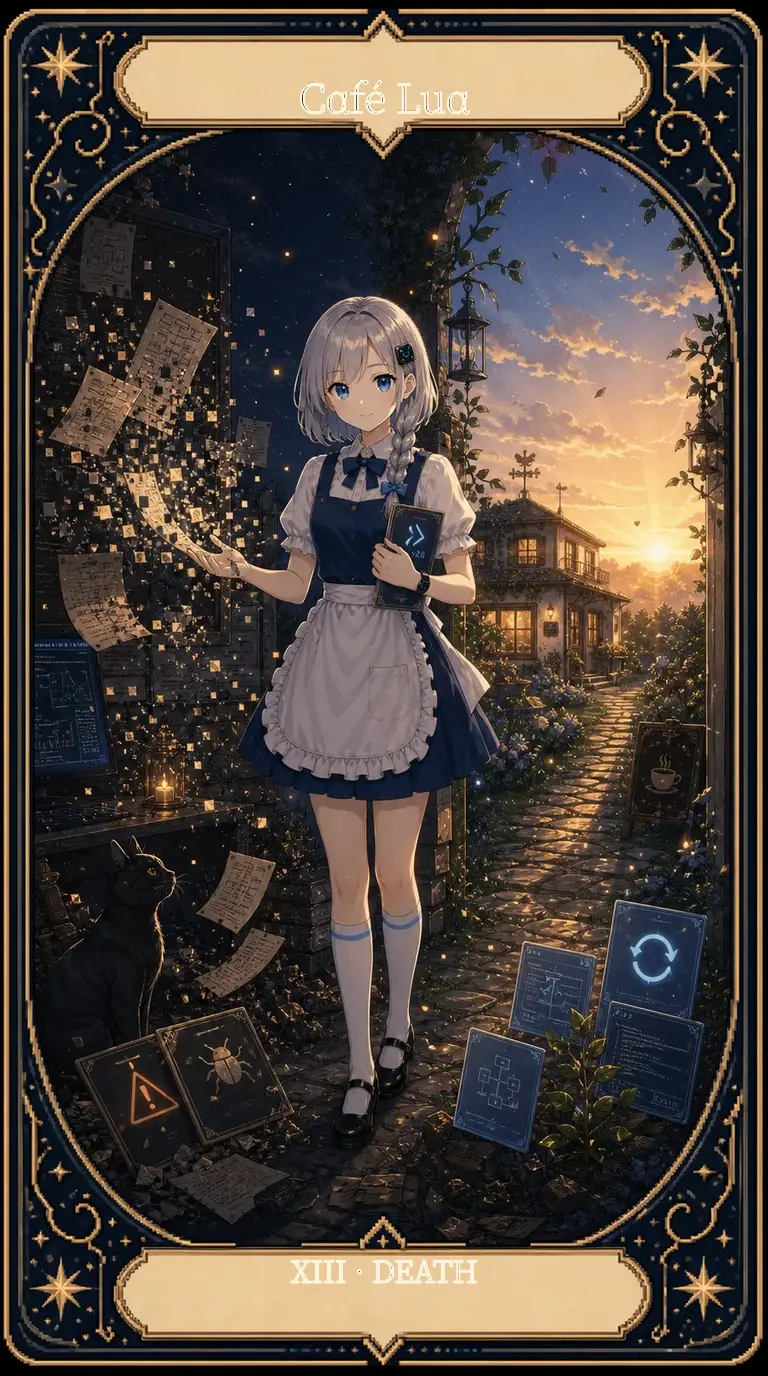
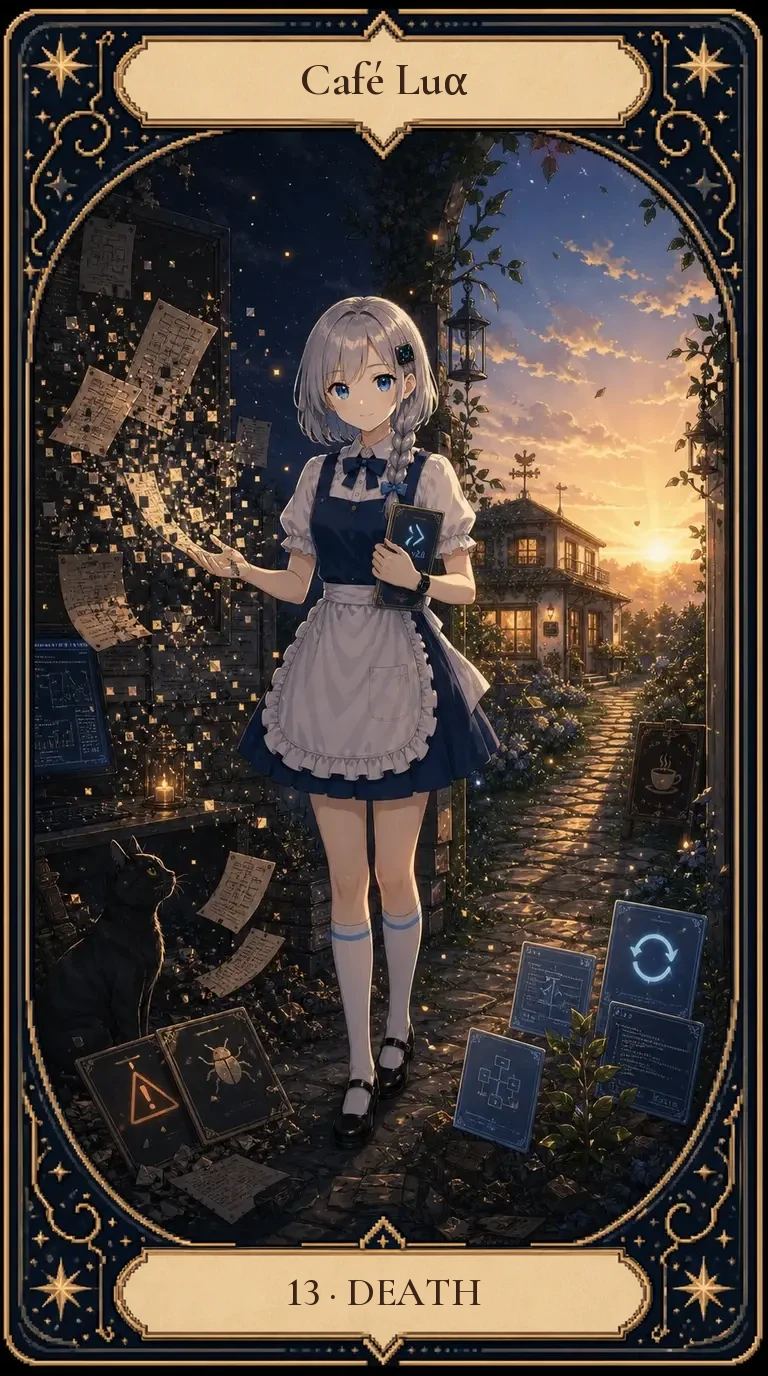
fix(gallery): 타로 카드 띠 글자 다시 얹기·카드 비율·상세 창 가로 넘침, 덱 이름 v1.0/v2.0
- v2.0 카드 22장: 크림색 띠 위 흰 글자가 떠 보여 원본 띠에 어두운 잉크색 세리프(Cormorant Garamond, OFL)로 다시 얹음. 그림 본체는 운영판 그대로, 띠 안쪽만 교체
- 목록 카드 그림을 원본 비율(768x1376)로 보여 위아래 이름 띠가 잘려 아래 글과 겹치던 문제 수정
- 카드 상세 창 이야기 칸이 고정 폭(760px)이라 오른쪽 칸 밖으로 넘쳐 가로 스크롤이 생기던 문제 수정
- 덱 이름: 현재판→v2.0, old판→v1.0

Changed region(s): [[0.375, 0.0312, 0.625, 0.0938], [0.375, 0.9062, 0.625, 0.9688]]

diff --git a/src/data/gallery/galleryData.ts b/src/data/gallery/galleryData.ts
@@ -209,15 +209,15 @@ export const SPACE_IMAGES: Record<string, GalleryImage[]> = {
 export const TAROT_DECKS: GalleryDeck[] = [
   {
     key: 'current-major',
-    labelKo: '현재판 단편소설집',
-    labelEn: 'Current Illustrated Stories',
+    labelKo: 'v2.0 단편소설집',
+    labelEn: 'v2.0 Illustrated Stories',
     storyKo: '스물두 장의 타로 삽화로 읽는 카페루아의 하룻밤. 알파는 이름 없는 질문을 들고 들어온 손님과 마주 앉아, 침묵과 선택, 상실과 회복을 지나 아침까지 이어지는 작은 단편을 펼친다.',
     storyEn: 'A Cafe Lua night told through twenty-two tarot illustrations. Alpha sits with a visitor carrying an unnamed question, unfolding a short story through silence, choice, loss, repair, and morning light.',
   },
   {
     key: 'old-major',
-    labelKo: 'old판 단편소설집',
-    labelEn: 'Old Illustrated Stories',
+    labelKo: 'v1.0 단편소설집',
+    labelEn: 'v1.0 Illustrated Stories',
     storyKo: '같은 스물두 장면을 이전 old 삽화로 다시 읽는 단편소설집. 지금보다 낯선 알파와 오래된 카페루아의 결이 남아 있어, 같은 사건도 조금 다른 온도와 표정으로 이어진다.',
     storyEn: 'The same twenty-two scenes retold through the old illustrations. An earlier Alpha and an older Cafe Lua atmosphere remain, giving the same story a different temperature and expression.',
   },

diff --git a/src/components/GalleryPage.css b/src/components/GalleryPage.css
@@ -368,7 +368,8 @@
 
 .tarot-card-item img {
     width: 100%;
-    aspect-ratio: 2 / 3;
+    /* 카드 그림 원본 비율(768x1376). 2/3 으로 자르면 그림 위아래의 카드 이름 띠가 잘려 아래 글과 겹쳐 보인다. */
+    aspect-ratio: 768 / 1376;
     object-fit: cover;
     display: block;
 }
@@ -490,7 +491,9 @@
 }
 
 .lightbox-story {
-    width: min(760px, 90vw);
+    /* 상세 창 오른쪽 정보 칸 안에 들어가므로 칸 폭을 따른다. 고정 폭이면 칸 밖으로 넘쳐 가로 스크롤이 생긴다. */
+    width: auto;
+    max-width: 100%;
     margin-top: 0.7rem;
     padding: 0.75rem 0.9rem;
     background: rgba(10, 10, 14, 0.42);
